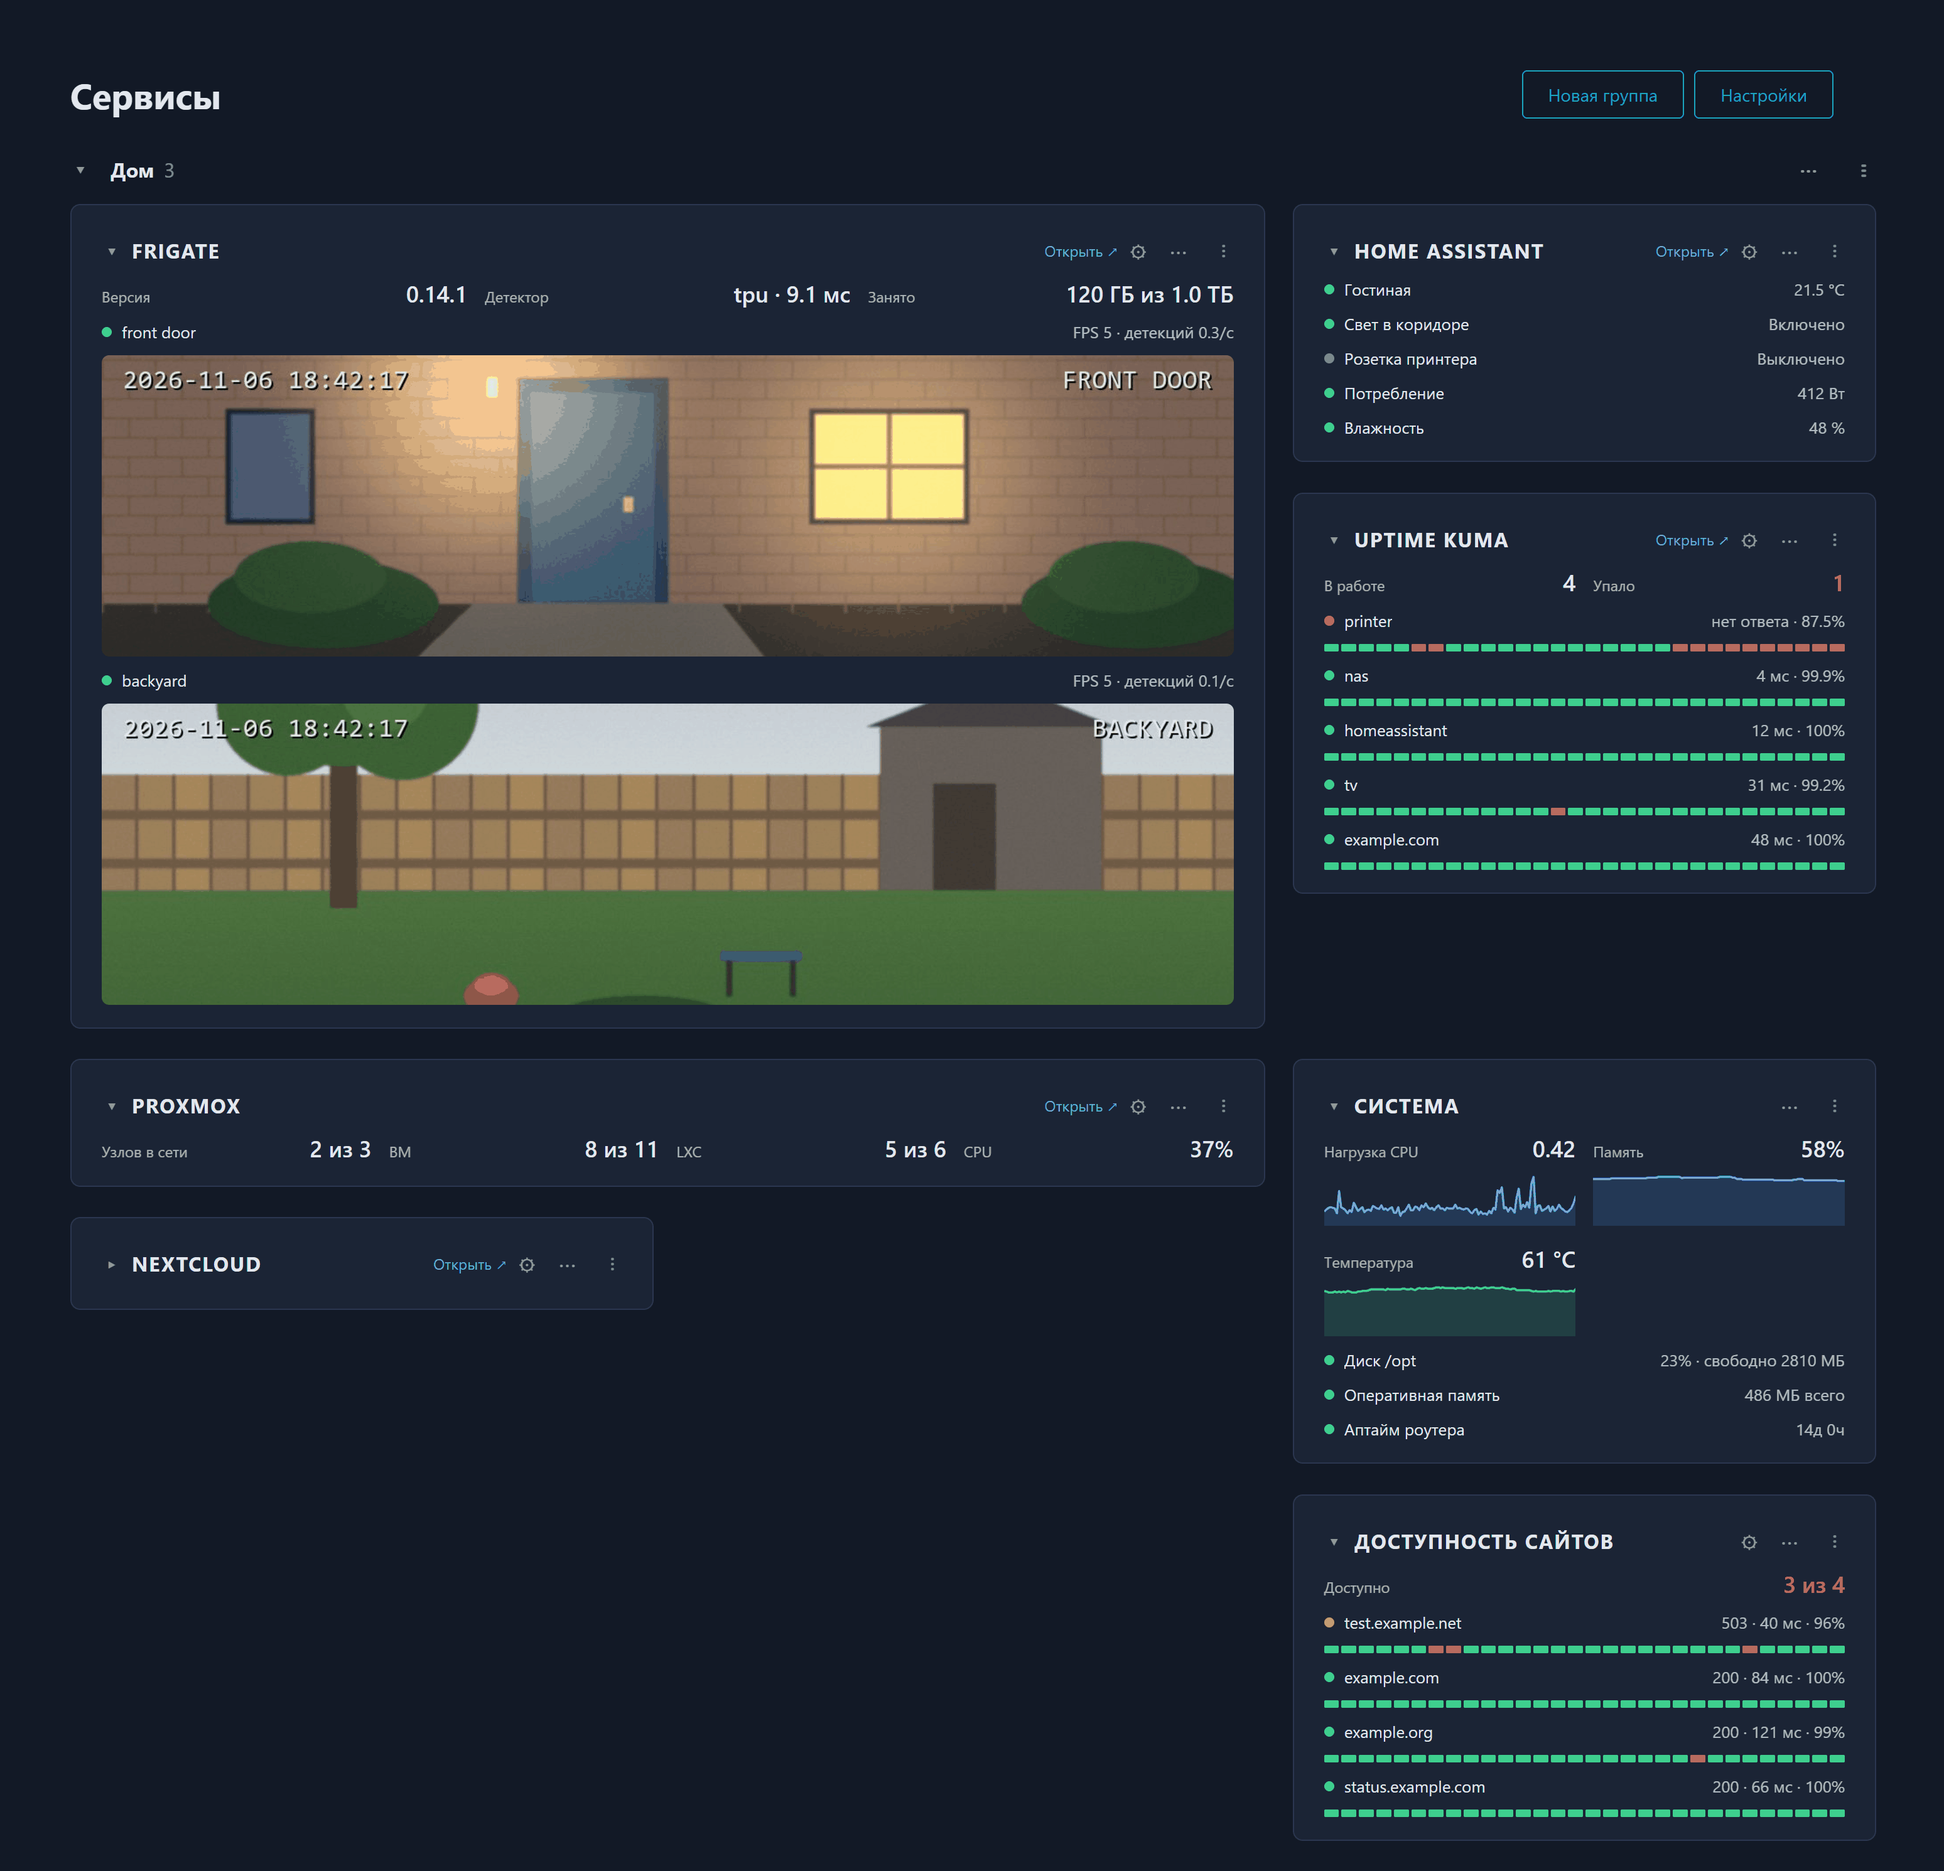
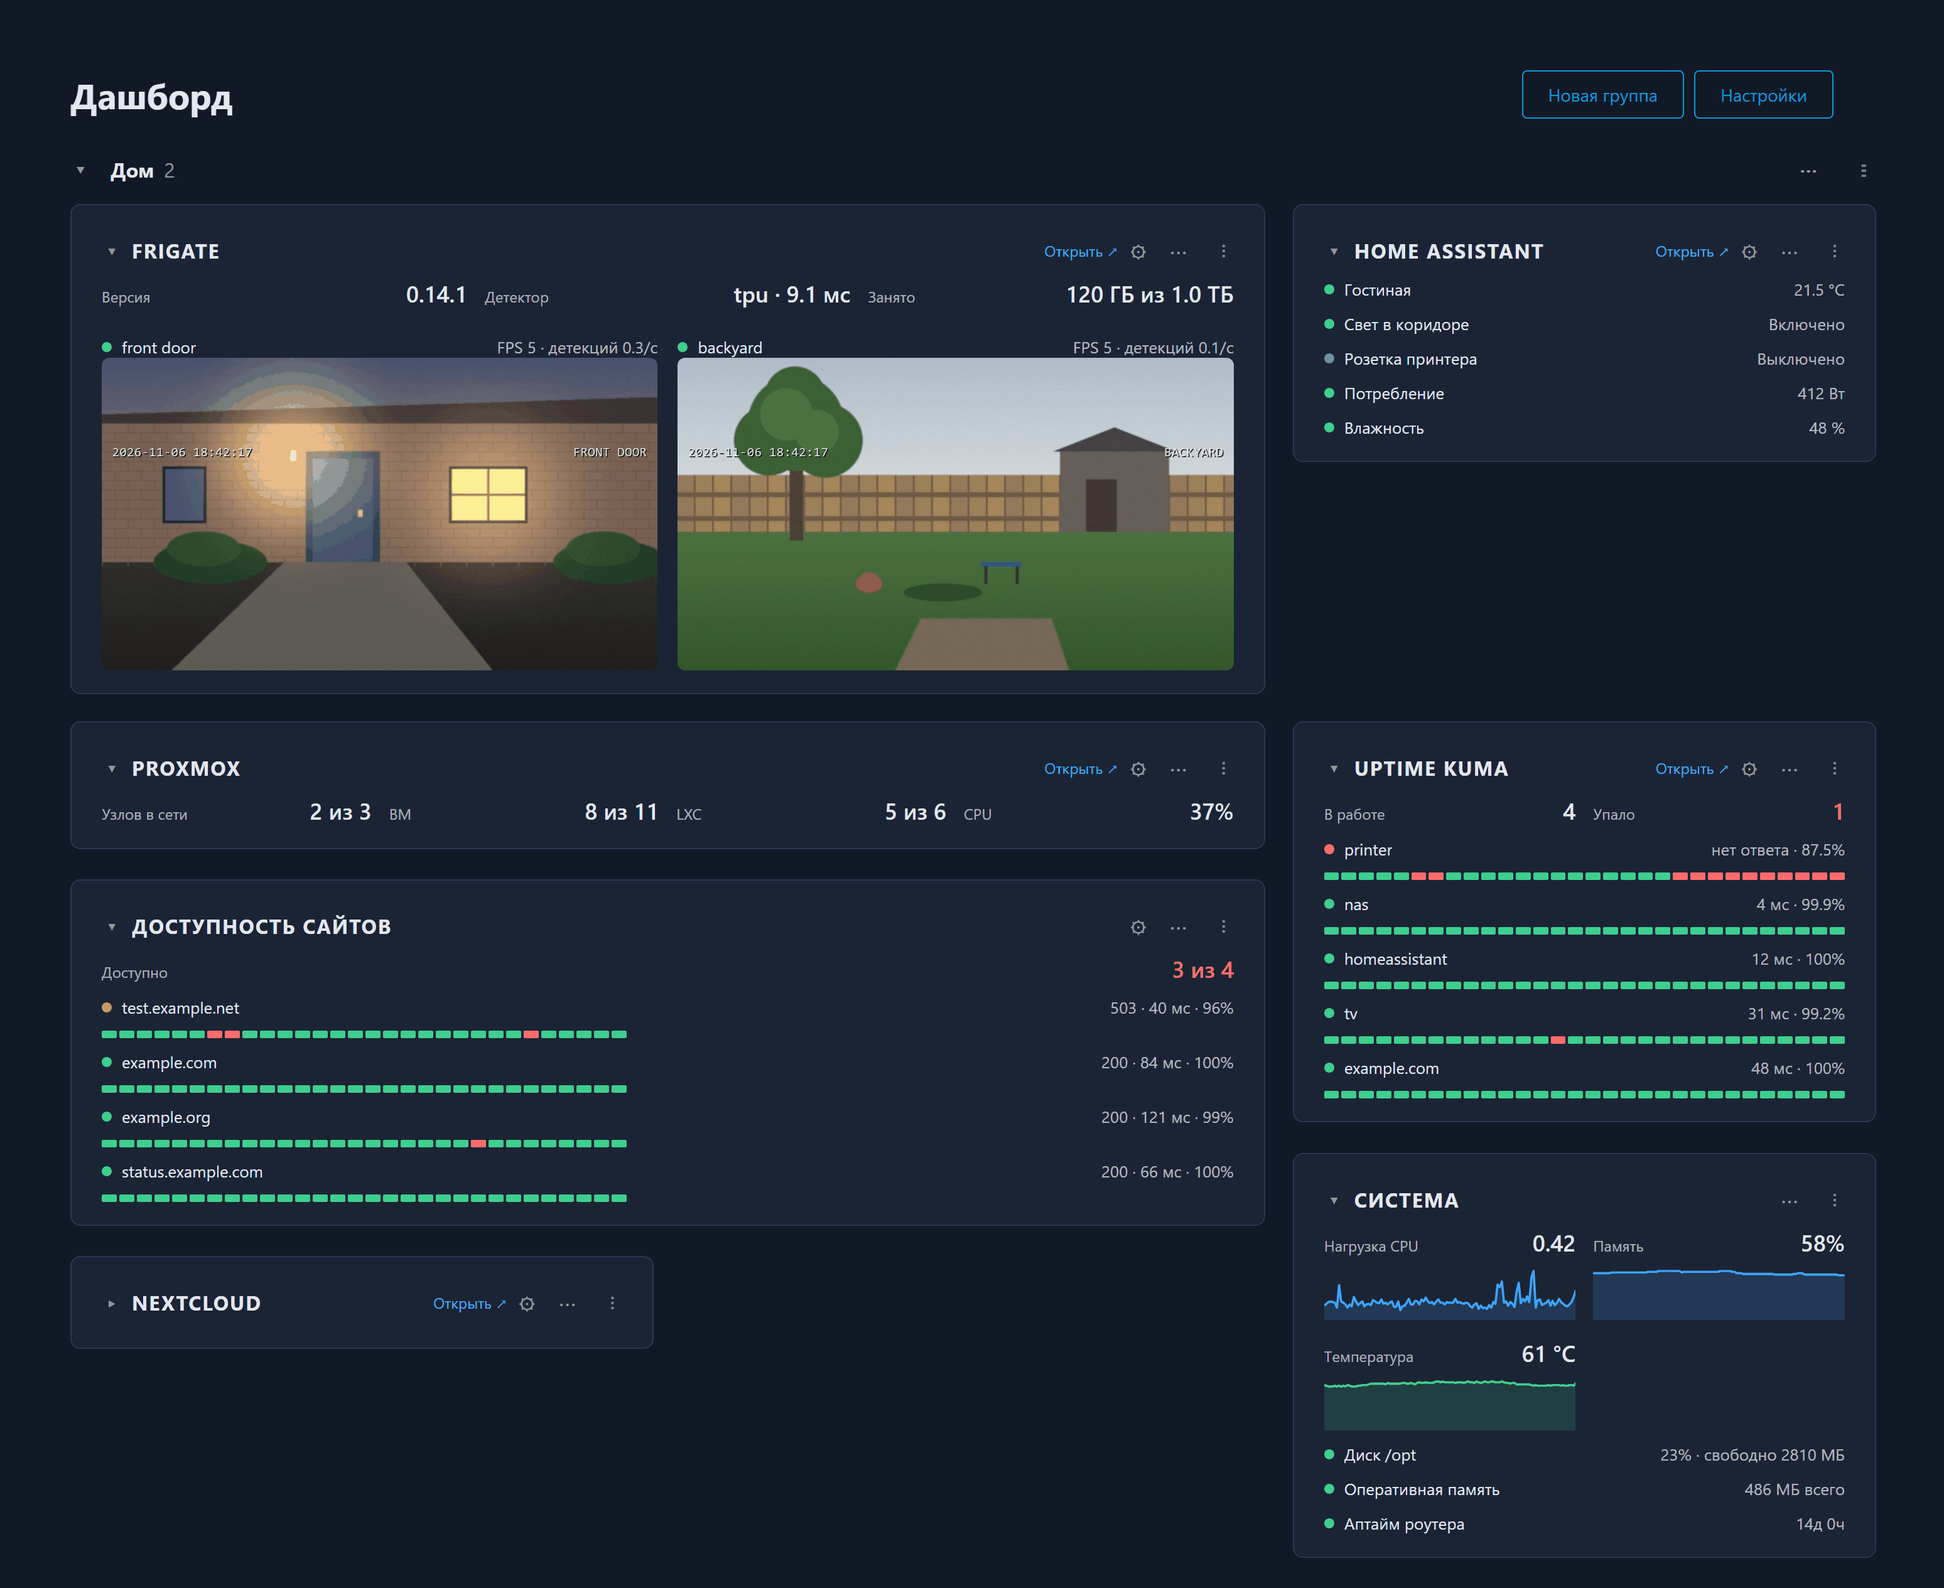
Frigate: camera tiles fill the card

diff --git a/tests/widget.test.js b/tests/widget.test.js
@@ -224,7 +224,7 @@ const res = []; const ok = (n, c, e) => res.push((c ? "PASS " : "FAIL ") + n + (
       {
         const css = w.document.getElementById("us-style").textContent, rule = (css.match(/\.us-snap,\.us-stream\{[^}]*\}/) || [""])[0];
         ok("frigate snap: the picture is whole (natural ratio, full width), never cropped: no object-fit, aspect-ratio or max-height; rounded", /width:100%;height:auto/.test(rule) && !/object-fit|aspect-ratio|max-height/.test(rule) && /border-radius:6px/.test(rule), rule);
-        ok("frigate cameras: a grid of tiles whose columns follow the card's width", /\.us-cams\{display:grid;grid-template-columns:repeat\(auto-fill,minmax\(min\(260px,100%\),1fr\)\)/.test(css));
+        ok("frigate cameras: a grid of tiles that fill the card, apart from the tiles above", /\.us-cams\{display:grid;grid-template-columns:repeat\(auto-fit,minmax\(min\(260px,100%\),1fr\)\);gap:12px 16px;margin-top:12px\}/.test(css));
         const tiles = Array.from(m.querySelectorAll(".us-cams > .us-cam"));
         ok("frigate cameras: every camera is a .us-cams > .us-cam tile with its line and its frame", tiles.length === 2 && m.querySelectorAll(".us-cams").length === 1 && tiles.every(t => t.querySelectorAll(".us-row").length === 1 && t.querySelectorAll("img.us-snap").length === 1 && t.firstElementChild.classList.contains("us-row") && t.lastElementChild.tagName === "IMG"), m.innerHTML);
       }

diff --git a/files/opt/share/keendash/www/widgets/services.js b/files/opt/share/keendash/www/widgets/services.js
@@ -750,7 +750,7 @@
       ".us-r{margin-left:auto;opacity:.75;font-variant-numeric:tabular-nums;white-space:nowrap;padding-left:8px}" +
       ".us-tag{font-size:11px;opacity:.7;border:1px solid rgba(128,128,128,.4);border-radius:4px;padding:0 5px;margin-left:4px}" +
       /* the whole picture at its own ratio, never cropped or stretched (an iframe has none: 16/9) */
-      ".us-cams{display:grid;grid-template-columns:repeat(auto-fill,minmax(min(260px,100%),1fr));gap:12px 16px}.us-cam{min-width:0}" +
+      ".us-cams{display:grid;grid-template-columns:repeat(auto-fit,minmax(min(260px,100%),1fr));gap:12px 16px;margin-top:12px}.us-cam{min-width:0}" +
       ".us-snap,.us-stream{display:block;width:100%;height:auto;border:0;border-radius:6px}iframe.us-stream{aspect-ratio:16/9}" +
       ".us-note{font-size:12px;opacity:.75}.us-note b{font-weight:600;opacity:1}" +
       ".us-upd{display:flex;flex-direction:column;gap:10px;padding:12px 14px;border-radius:8px;background:rgba(0,151,220,.1);font-size:13px}" +
